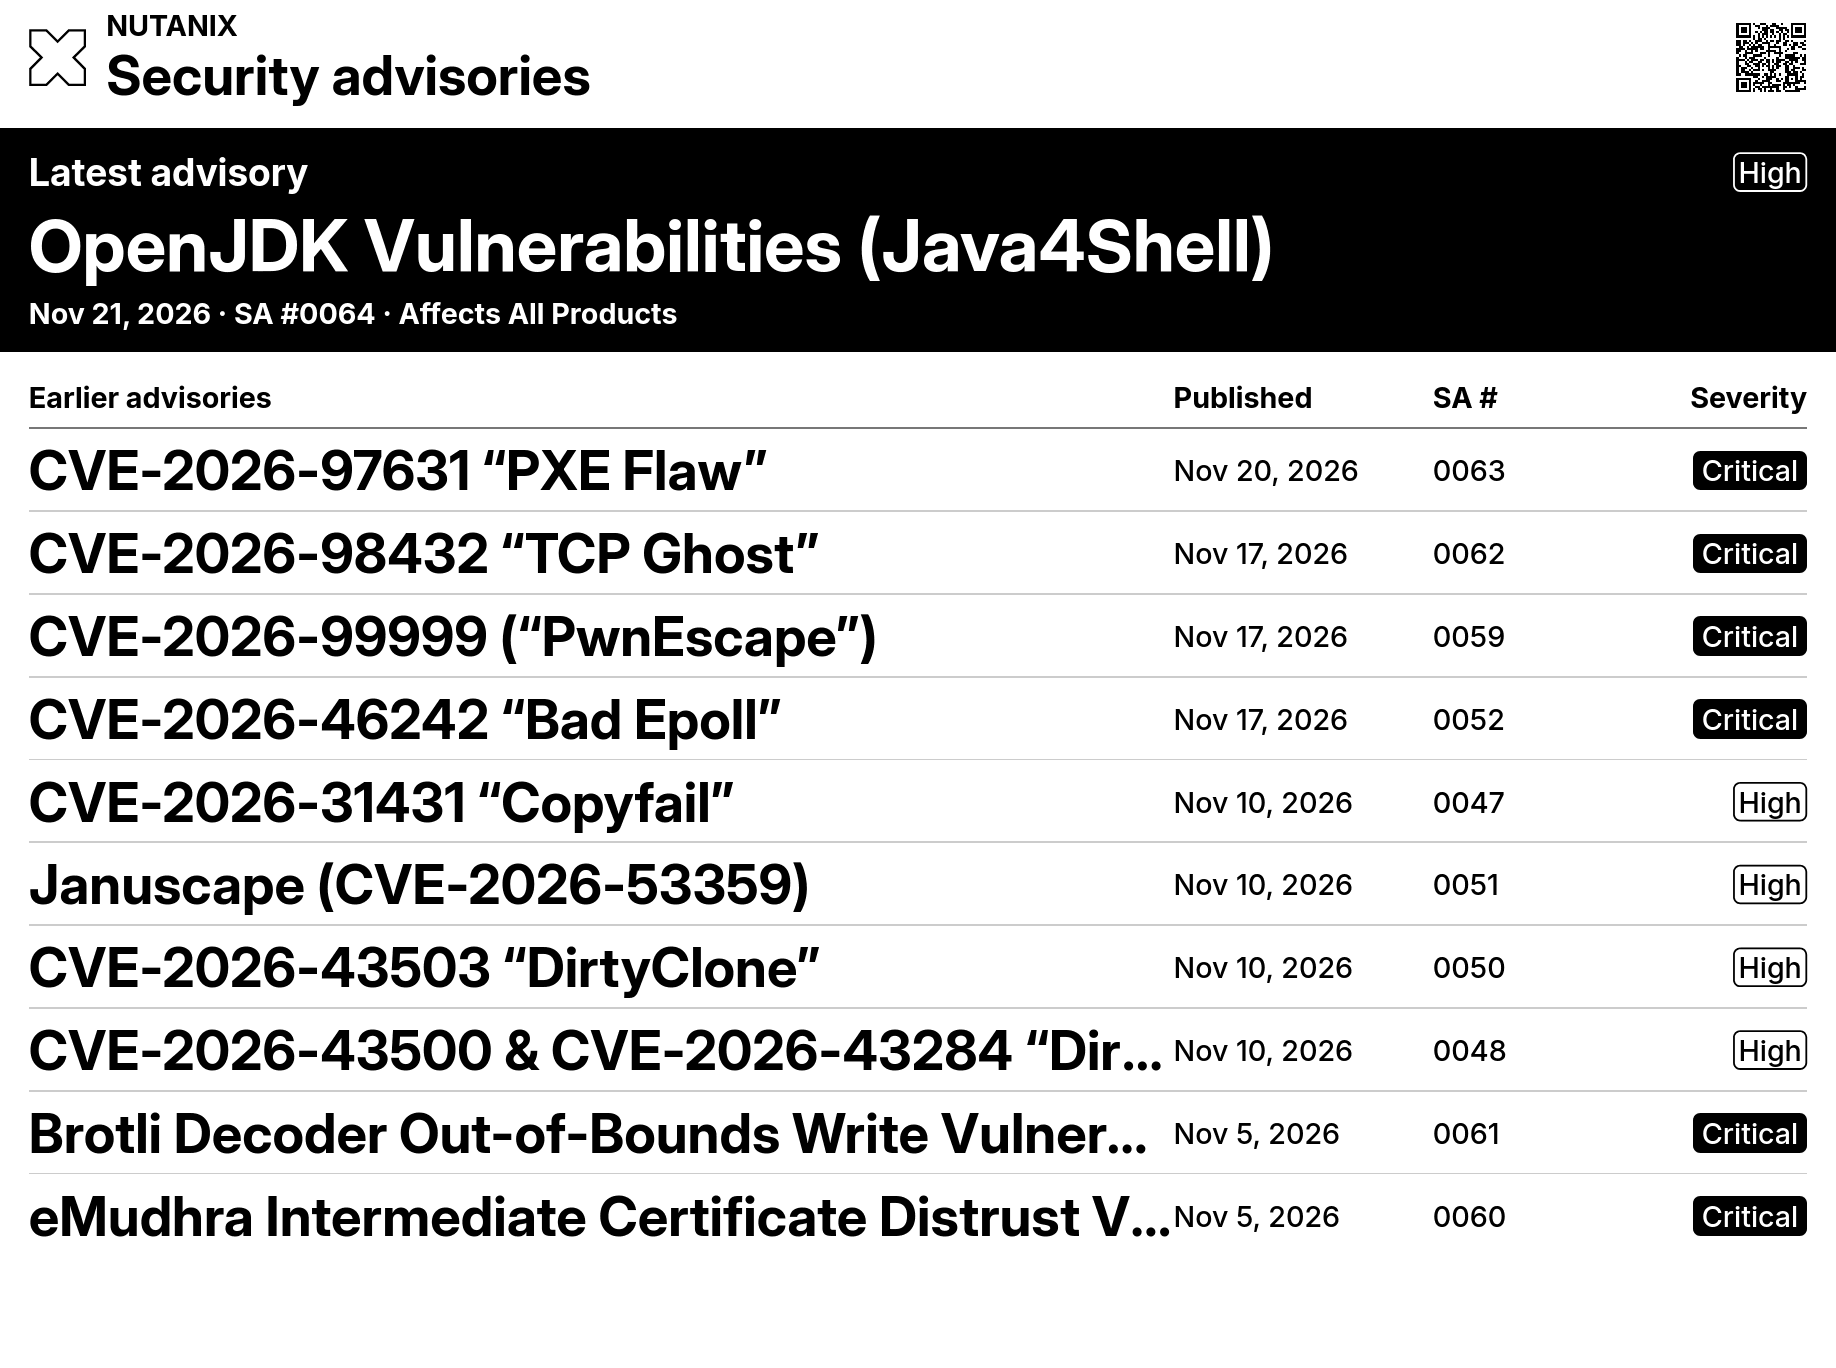
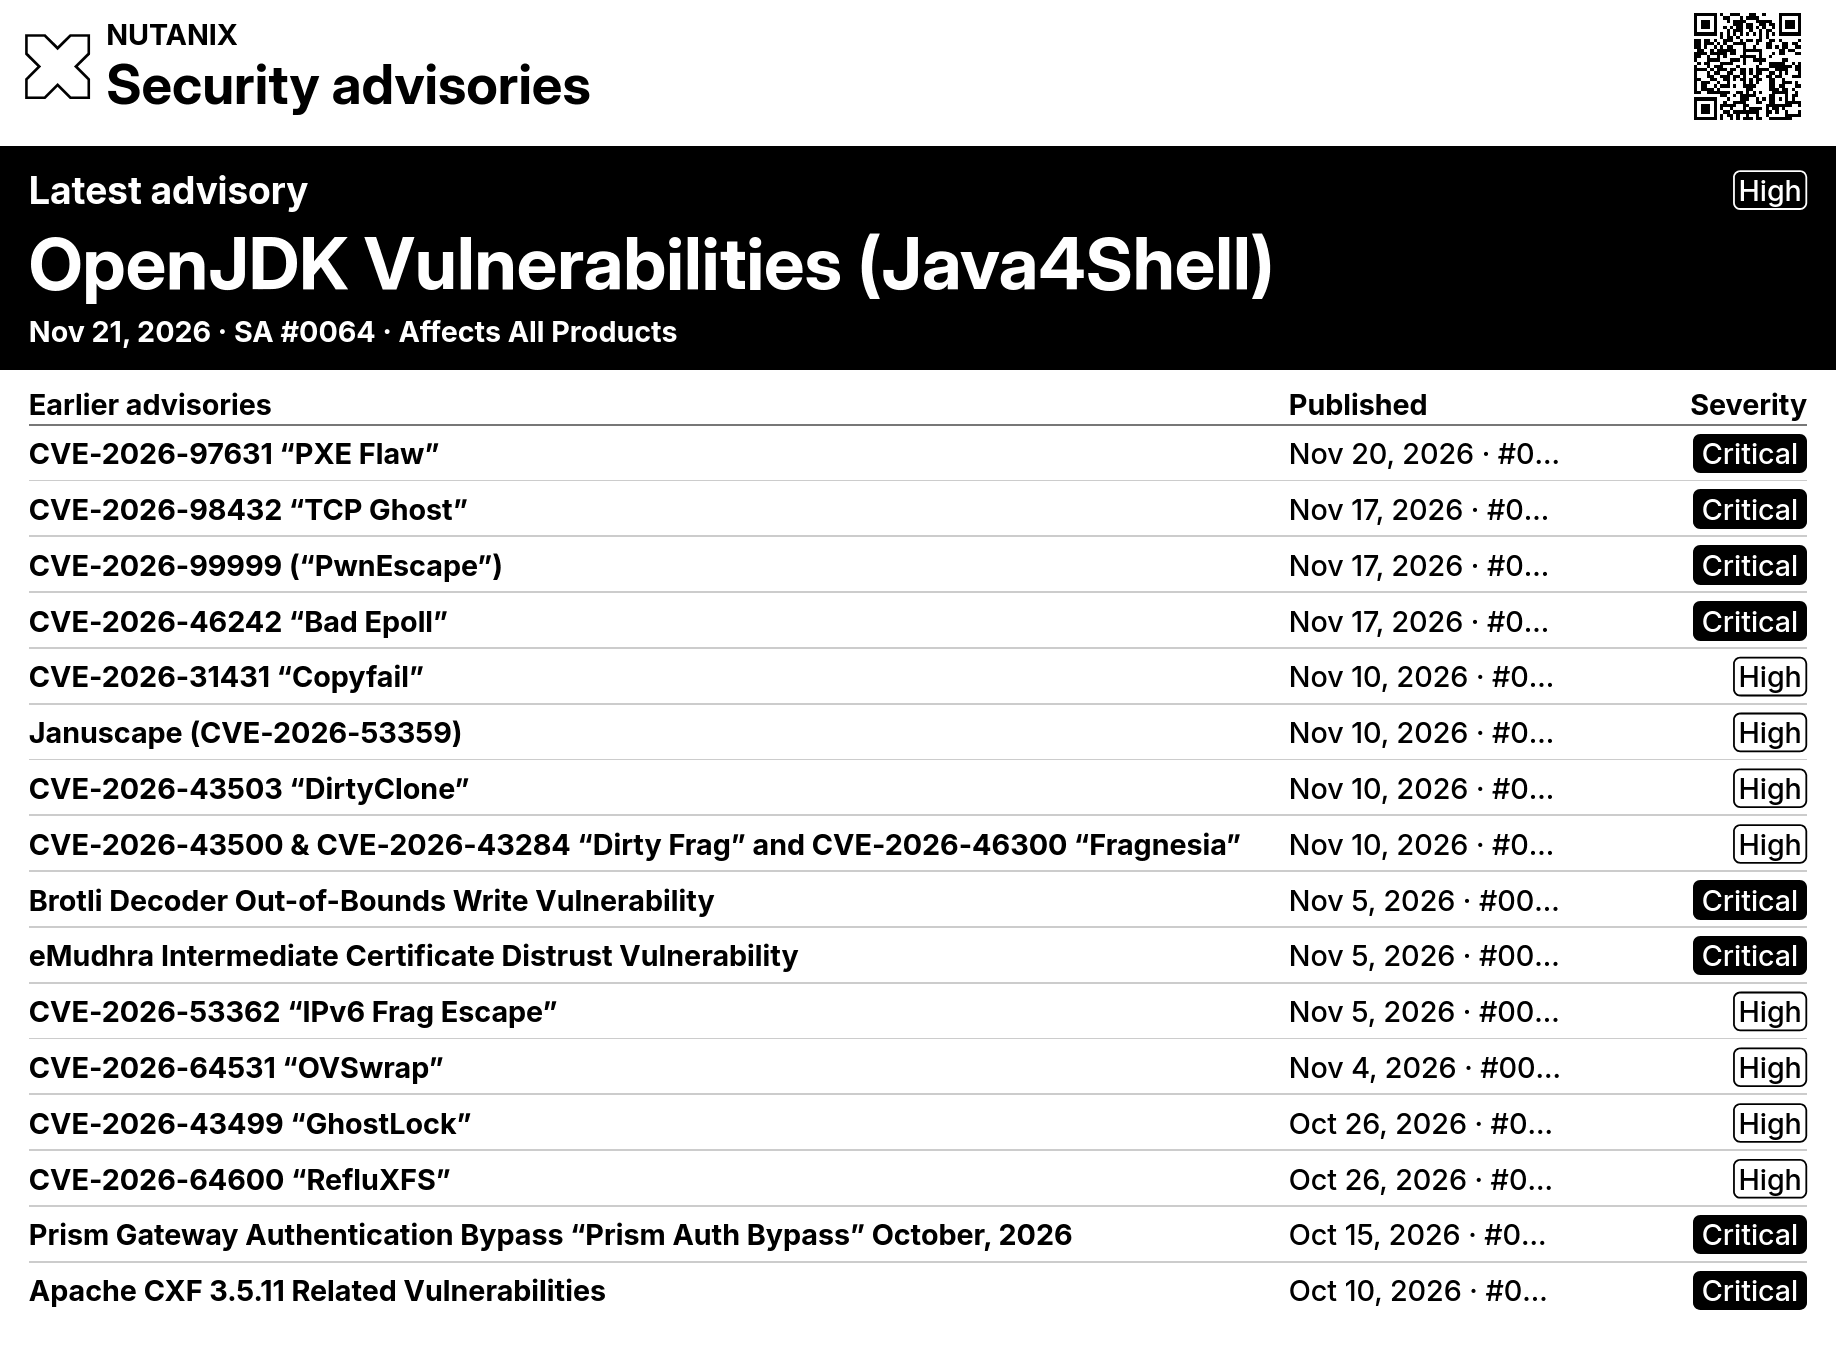
refactor: share the security table across screen sizes

Changed region(s): [[0.0, 0.0, 1.0, 0.9825], [0.4036, 0.307, 0.4346, 0.3377]]

diff --git a/TRMNL/src/transform.js b/TRMNL/src/transform.js
@@ -74,16 +74,10 @@ function vulnerabilityData(entries, product) {
       };
     });
 
-  // totalCount and pageCount have both returned the current page's length.
   return {
     mode: 'nxvd',
     feed_state: rows.length ? 'LIVE' : 'EMPTY',
-    nxvd: {
-      total: rows.length,
-      critical: rows.filter((row) => row.severity === 'Critical').length,
-      high: rows.filter((row) => row.severity === 'High').length,
-      rows,
-    },
+    nxvd: { rows },
   };
 }
 
@@ -155,8 +149,9 @@ async function run(input) {
 
   const result = isNxvd ? vulnerabilityData(entries, product) : advisoryData(entries, criticalityFirst);
   const snapshot = { selection, saved_at: new Date().toISOString(), data: result };
+  const output = { ...result, portal_url };
   if (Buffer.byteLength(JSON.stringify(snapshot)) <= SAVED_STATE_BYTES) {
-    return { ...result, portal_url, trmnl_state: snapshot };
+    output.trmnl_state = snapshot;
   }
-  return { ...result, portal_url };
+  return output;
 }

diff --git a/TRMNL/tests/layout_spec.rb b/TRMNL/tests/layout_spec.rb
@@ -44,9 +44,9 @@ RSpec.describe 'Nutanix Security layouts' do
   views = %w[full half_horizontal half_vertical quadrant]
   row_limits = {
     'og' => [6, 3, 4, 0],
-    'og-portrait' => [11, 3, 8, 0],
+    'og-portrait' => [16, 3, 8, 0],
     'x' => [15, 5, 9, 2],
-    'x-portrait' => [12, 5, 9, 2]
+    'x-portrait' => [16, 5, 9, 2]
   }
 
   cases.each do |scenario, (mode, mocks, label, count, advisory_sort)|
@@ -149,11 +149,9 @@ RSpec.describe 'Nutanix Security layouts' do
           expect(geometry['rows']).to eq([remaining, visible_limit].min)
           expect(geometry['renderedRows']).to eq([remaining, markup_limit].min)
           if count > 1 && view == 'full'
-            expect(geometry['stackedMetadata']).to eq(device_name == 'og-portrait')
-          end
-          if count > 1 && view == 'full' && %w[og x].include?(device_name)
+            expect(geometry['stackedMetadata']).to be(false)
             expect(geometry['beside']).to be(false)
-            expect(geometry['columns']).to eq(device_name == 'x' ? 4 : 3)
+            expect(geometry['columns']).to eq(3)
           end
 
           FileUtils.mkdir_p('_build/previews')

diff --git a/TRMNL/README.md b/TRMNL/README.md
@@ -18,7 +18,7 @@ The listing icon is available at [media/icon.svg](media/icon.svg). Upload it sep
 
 ## Previews
 
-Recorded on November 21, 2026 using public Nutanix data.
+Rendered with public Nutanix data from November 21, 2026.
 
 | Security Advisories | Full | Half horizontal | Half vertical | Quadrant |
 | --- | --- | --- | --- | --- |
@@ -36,9 +36,9 @@ Recorded on November 21, 2026 using public Nutanix data.
 
 The full view on both TRMNL OG and X has a small QR code in the header. It opens the selected table on Nutanix's support portal. NXVD opens with your selected product. The portal uses its own sort order.
 
-The lead item sits in a dark panel above the table. Full landscape views give publication dates or products their own column, and X adds advisory numbers or fixed releases. The landscape horizontal split puts the lead beside the table. The OG quadrant shows one featured item, and the X quadrant also fits a short table. [TRMNL X layout guide](https://trmnl.com/framework/docs/3.4/trmnl_x_guide)
+The full views share a lead panel and three columns. Advisory rows group the publication date and advisory number. NXVD rows group the product and fixed releases. The landscape horizontal split puts the lead beside the table. The OG quadrant shows one featured item, and the X quadrant also fits a short table. [TRMNL X layout guide](https://trmnl.com/framework/docs/3.4/trmnl_x_guide)
 
-The templates limit the number of rendered rows. In full landscape layouts, the table reveals extra rows when they fit below the featured item. Framework 3.4.6 handles typography, table sizing, and responsive visibility. Text clips in place as the browser lays out the page. The landscape limits below include the featured item.
+Full views show as many rows as fit below the lead, up to the 17-item data limit. The framework handles typography, table sizing, and responsive column widths. Text clips in place on first paint. The landscape limits below include the featured item.
 
 | Layout | OG | X |
 | --- | ---: | ---: |
